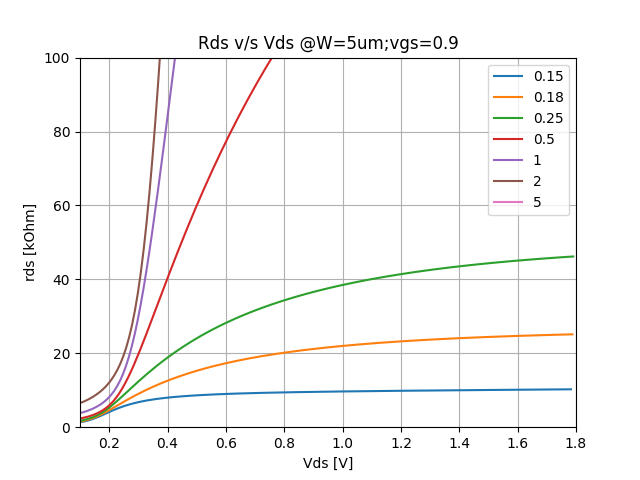
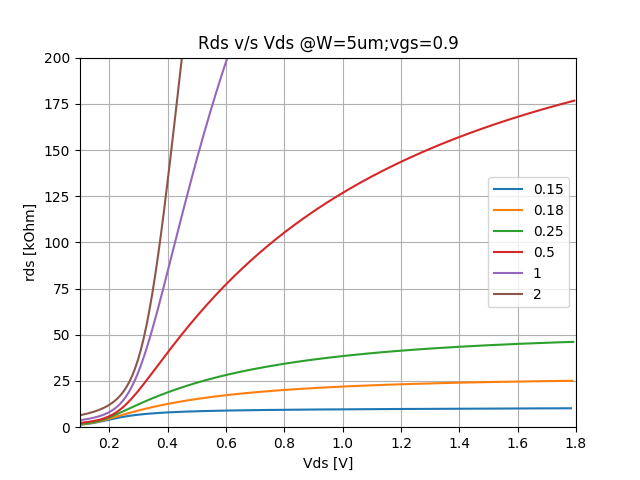
modified files for y-limits and removed 5um

diff --git a/plot.py b/plot.py
@@ -26,7 +26,7 @@ for filename in filename_list:
 	with open(filename,'r') as csvfile:
 		file = pandas.read_csv(csvfile,header=None,index_col=False,skipinitialspace=True,sep='\\s+',names=param_list_extended,usecols=param_list)
 	file['delta'] = file.apply(lambda row: 2*row.id/row.gm, axis=1)
-	l_list = [0.15, 0.18, 0.25, 0.5, 1, 2, 5]
+	l_list = [0.15, 0.18, 0.25, 0.5, 1, 2]
 	#l_list = [0.15]
 	fig1, ax1 = plt.subplots()
 	fig2, ax2 = plt.subplots()
@@ -56,7 +56,7 @@ for filename in filename_list:
 	#print(to_print)
 
 	ax1.set_xlim(0.1,0.5)
-	ax1.set_ylim(0.0,100)
+	#ax1.set_ylim(0.0,100)
 	ax1.set_xlabel(u'Δ [V]')
 	ax1.set_ylabel(u'Id/W [uA/um]')
 	ax1.set_title(u'Current density v/s Δ = 2Id/gm @vds='+str(vds))
@@ -65,7 +65,7 @@ for filename in filename_list:
 	fig1.savefig(filename.replace('sweep_','').replace('.csv','_')+'CurrentDensity.png')
 
 	ax2.set_xlim(0.1,1.8)
-	ax2.set_ylim(0.0,100)
+	ax2.set_ylim(0.0,200)
 	ax2.set_xlabel(u'Vds [V]')
 	ax2.set_ylabel(u'rds [kOhm]')
 	ax2.set_title(u'Rds v/s Vds @W=5um;vgs='+str(vgs))
@@ -74,7 +74,7 @@ for filename in filename_list:
 	fig2.savefig(filename.replace('sweep_','').replace('.csv','_')+'RdsVds.png')
 
 	ax3.set_xlim(0.1,0.5)
-	ax3.set_ylim(0.0,170)
+	ax3.set_ylim(0.0,300)
 	ax3.set_xlabel(u'Δ [V]')
 	ax3.set_ylabel(u'gmrds')
 	ax3.set_title(u'gmRds v/s Δ @W=5um;vds='+str(vds))
